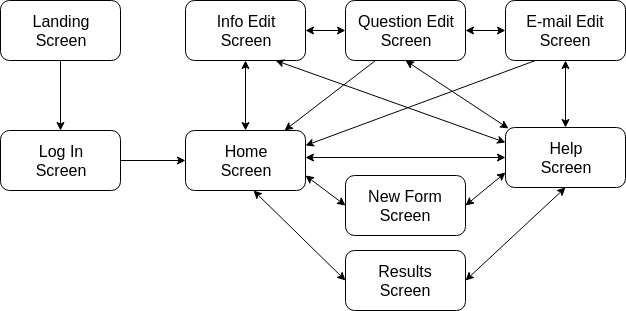
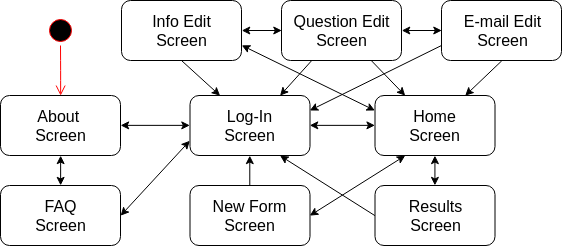
Updated navigation diagram and summary

diff --git a/documents/uidd.tex b/documents/uidd.tex
@@ -90,7 +90,7 @@ This section goes into more detail about the screens in the user interface and h
 \vspace{2mm}
 \end{center}
 
-The first screen that the user sees upon starting up the system is the \textbf{Landing Screen}. The user then proceeds to the \textbf{Log In Screen}. After entering a correct username and password, the \textbf{Home Screen} appears. The user can switch back and forth between the home page and the \textbf{Info Edit Screen}, \textbf{New Form Screen}, \textbf{Help Screen}, and \textbf{Results Screen}. To edit a survey, a user must go to the info edit screen, then the \textbf{Question Edit Screen}, then the \textbf{E-mail Edit Screen} (all three link back to the home page). Finally, the \textbf{Help Screen} can be accessed from any other screen except the landing and log-in screens.
+The first screen that the user sees upon starting up the system is the \textbf{Landing Screen}. The user can switch between that and both the \textbf{FAQ Screen} and  \textbf{Log-In Screen}. After entering a correct username and password on the log-in screen, the \textbf{Home Screen} appears. The user can then call up the \textbf{Info Edit Screen}, \textbf{New Form Screen}, or \textbf{Results Screen} from the home page. To edit an evaluation form, a user must go to the info edit screen, then the \textbf{Question Edit Screen}, then the \textbf{E-mail Edit Screen}. The log-in screen and home screen can be accessed from any other screen except the about and FAQ screens.
 
 The next set of figures, Figures 3 to 11, consist of the wireframes for each screen in the evaluation system. These diagrams communicate the areas, menus, and buttons that are unique to a certain screen and what they do.
 
